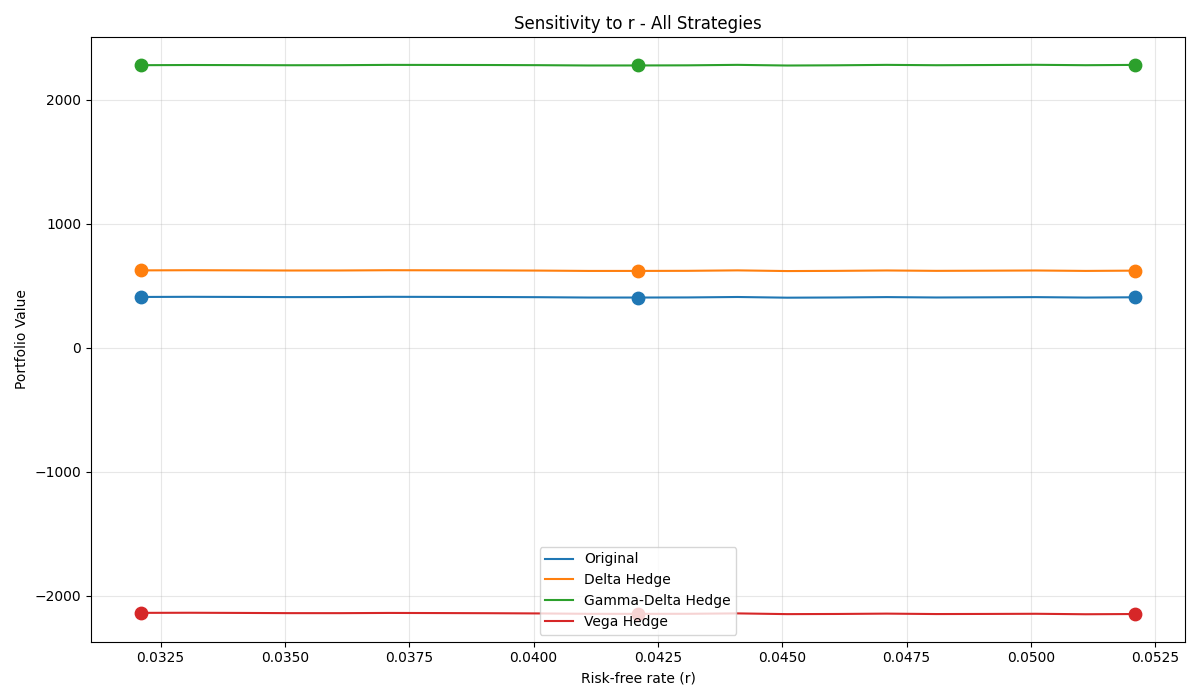
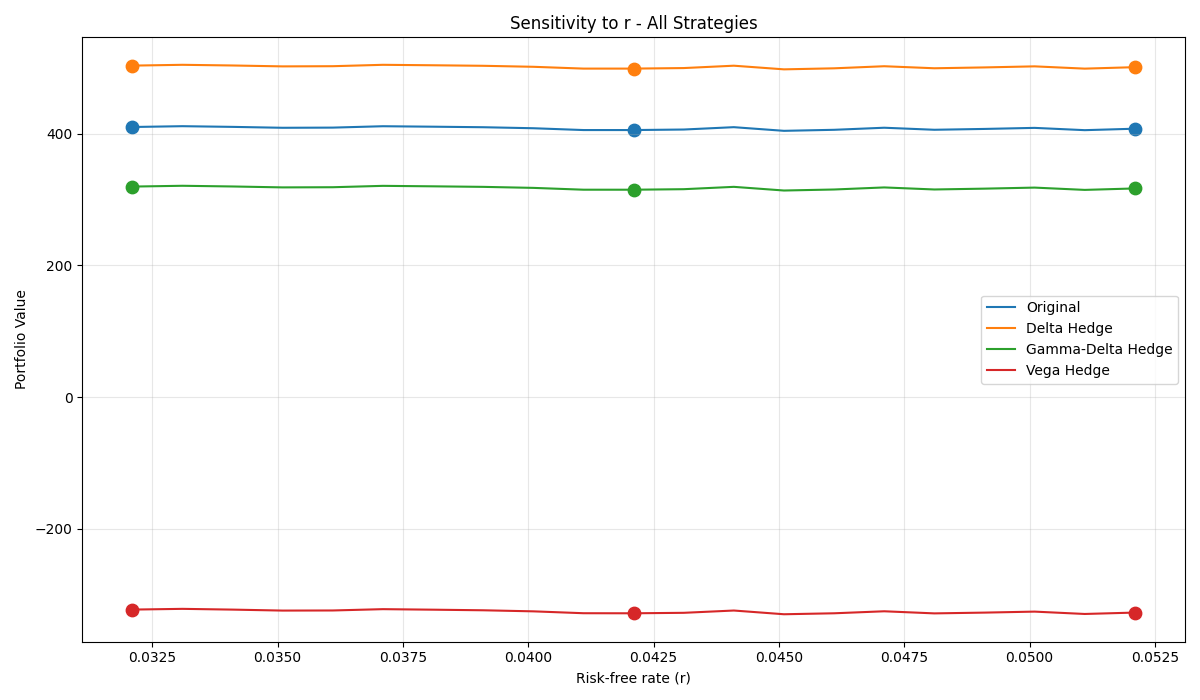
test

diff --git a/option_pricing/binomial_model/binomial_portfolio_analysis.py b/option_pricing/binomial_model/binomial_portfolio_analysis.py
@@ -171,12 +171,17 @@ def gamma_bs(S, K, T, r, sigma):
     d1 = (np.log(S / K) + (r + 0.5 * sigma ** 2) * T) / (sigma * np.sqrt(T))
     return norm.pdf(d1) / (S * sigma * np.sqrt(T))
 
-def run_sensitivity_analysis_binomial(portfolio, N, vis_dir):
+def run_sensitivity_analysis_binomial(portfolio, N):
+    # Define portfolio_gamma_hedged and portfolio_vega_hedged before using them
+    portfolio_gamma_hedged = portfolio + [{'type': 'call', 'style': 'european', 'S': portfolio[0]['S'], 'K': portfolio[0]['K'], 'T': portfolio[0]['T'], 'r': portfolio[0]['r'], 'qty': 0, 'market_price': portfolio[0]['market_price']}]
+    portfolio_vega_hedged = portfolio + [{'type': 'call', 'style': 'european', 'S': portfolio[0]['S'], 'K': portfolio[0]['K'], 'T': portfolio[0]['T'], 'r': portfolio[0]['r'], 'qty': 0, 'market_price': portfolio[0]['market_price']}]
     hedge_strategies = [
         ('Original', portfolio),
         ('Delta Hedge', portfolio + [{
             'type': 'call', 'style': 'european', 'S': portfolio[0]['S'], 'K': portfolio[0]['K'], 'T': portfolio[0]['T'], 'r': portfolio[0]['r'], 'qty': -portfolio_greeks(portfolio, N)['delta'], 'market_price': portfolio[0]['market_price']
         }]),
+        ('Delta-Gamma Hedge', portfolio_gamma_hedged),
+        ('Vega Hedge', portfolio_vega_hedged),
     ]
     # 1. Sensibilidad Spot (±10%)
     spot_base = portfolio[0]['S']
@@ -213,14 +218,14 @@ def run_sensitivity_analysis_binomial(portfolio, N, vis_dir):
             'Δ+10%': dhigh
         })
     df_spot = pd.DataFrame(spot_rows)
-    df_spot.to_csv(os.path.join(vis_dir, 'sensitivity_spot_all.csv'), index=False)
+    df_spot.to_csv(os.path.join(VIS_DIR, 'sensitivity_spot_all.csv'), index=False)
     plt.xlabel('Spot')
     plt.ylabel('Portfolio Value')
     plt.title('Sensitivity to Spot - All Strategies (Binomial)')
     plt.legend()
     plt.grid(True, alpha=0.3)
     plt.tight_layout()
-    plt.savefig(os.path.join(vis_dir, 'sensitivity_spot_all.png'))
+    plt.savefig(os.path.join(VIS_DIR, 'sensitivity_spot_all.png'))
     plt.close()
     # 2. Sensibilidad tipo de interés (±1%)
     r_base = portfolio[0]['r']
@@ -257,14 +262,14 @@ def run_sensitivity_analysis_binomial(portfolio, N, vis_dir):
             'Δ+1%': dhigh
         })
     df_r = pd.DataFrame(r_rows)
-    df_r.to_csv(os.path.join(vis_dir, 'sensitivity_r_all.csv'), index=False)
+    df_r.to_csv(os.path.join(VIS_DIR, 'sensitivity_r_all.csv'), index=False)
     plt.xlabel('Risk-free rate (r)')
     plt.ylabel('Portfolio Value')
     plt.title('Sensitivity to r - All Strategies (Binomial)')
     plt.legend()
     plt.grid(True, alpha=0.3)
     plt.tight_layout()
-    plt.savefig(os.path.join(vis_dir, 'sensitivity_r_all.png'))
+    plt.savefig(os.path.join(VIS_DIR, 'sensitivity_r_all.png'))
     plt.close()
     # 3. Sensibilidad volatilidad (±20%)
     plt.figure(figsize=(12,7))
@@ -304,17 +309,19 @@ def run_sensitivity_analysis_binomial(portfolio, N, vis_dir):
             'Δ+20%': dhigh
         })
     df_vol = pd.DataFrame(vol_rows)
-    df_vol.to_csv(os.path.join(vis_dir, 'sensitivity_vol_all.csv'), index=False)
+    df_vol.to_csv(os.path.join(VIS_DIR, 'sensitivity_vol_all.csv'), index=False)
     plt.xlabel('Volatility multiplier')
     plt.ylabel('Portfolio Value')
     plt.title('Sensitivity to Volatility - All Strategies (Binomial)')
     plt.legend()
     plt.grid(True, alpha=0.3)
     plt.tight_layout()
-    plt.savefig(os.path.join(vis_dir, 'sensitivity_vol_all.png'))
+    plt.savefig(os.path.join(VIS_DIR, 'sensitivity_vol_all.png'))
     plt.close()
 
 if __name__ == "__main__":
+    # Define the number of steps for the binomial model
+    N = 100  # or any appropriate default value
     # --- Definición de la cartera ---
     portfolio = [
         {'type': 'call', 'style': 'european', 'S': 5912.17, 'K': 5915, 'T': 0.0849, 'r': 0.0421, 'qty': -10, 'market_price': 111.93},
@@ -566,7 +573,7 @@ if __name__ == "__main__":
     hedge_strategies = [
         ('Original', portfolio),
         ('Delta Hedge', portfolio + [{
-            'type': 'call', 'style': 'european', 'S': portfolio[0]['S'], 'K': portfolio[0]['K'], 'T': portfolio[0]['T'], 'r': portfolio[0]['r'], 'qty': -portfolio_greeks(portfolio, N=N_steps)['delta'], 'market_price': portfolio[0]['market_price']
+            'type': 'call', 'style': 'european', 'S': portfolio[0]['S'], 'K': portfolio[0]['K'], 'T': portfolio[0]['T'], 'r': portfolio[0]['r'], 'qty': -portfolio_greeks(portfolio, N)['delta'], 'market_price': portfolio[0]['market_price']
         }]),
         ('Delta-Gamma Hedge', portfolio_gamma_hedged),
         ('Vega Hedge', portfolio_vega_hedged),

diff --git a/app.py b/app.py
@@ -909,9 +909,9 @@ if menu == "Sensitivity Analysis":
     # Add conditional logic for model-specific settings
     if model == "Monte Carlo":
         st.write("Monte Carlo model selected.")
-        n_sim_main = st.number_input("Number of simulations for P&L and VaR/ES", value=1000, min_value=1000, step=1000, help="Number of scenarios for P&L and VaR/ES simulation.")
-        n_sim_greeks = st.number_input("Number of simulations for Greeks", value=1000, min_value=1000, step=1000, help="Number of scenarios for Greeks calculation.")
-        n_sim_sens = st.number_input("Number of simulations for Sensitivities", value=1000, min_value=1000, step=1000, help="Number of scenarios for sensitivity analysis.")
+        n_sim_main = st.number_input("Number of simulations for P&L and VaR/ES", value=1000, min_value=1000, step=1000, help="Number of scenarios for P&L and VaR/ES simulation.", key="n_sim_main_sensitivity")
+        n_sim_greeks = st.number_input("Number of simulations for Greeks", value=1000, min_value=1000, step=1000, help="Number of scenarios for Greeks calculation.", key="n_sim_greeks_sensitivity")
+        n_sim_sens = st.number_input("Number of simulations for Sensitivities", value=1000, min_value=1000, step=1000, help="Number of scenarios for sensitivity analysis.", key="n_sim_sens_sensitivity")
         st.write("Note: The following input uses the Longstaff-Schwartz method.")
         N_steps = st.number_input("Number of steps (For short maturities, use fewer steps; for long maturities, use more steps)", value=100, min_value=1, step=1, help="Discretization steps for Monte Carlo model.")
     elif model == "Black-Scholes":
@@ -919,7 +919,7 @@ if menu == "Sensitivity Analysis":
         # Add Black-Scholes specific inputs here
     elif model == "Binomial":
         st.write("Binomial model selected.")
-        N_steps_binomial = st.number_input("Number of steps for Binomial tree", value=100, min_value=1, step=1, help="Discretization steps for Binomial model.")
+        N_steps_binomial = st.number_input("Number of steps for Binomial tree", value=100, min_value=1, step=1, help="Discretization steps for Binomial model.", key="N_steps_binomial_sensitivity")
     
     # Ensure portfolio options are customizable
     for i in range(num_options):
@@ -963,7 +963,16 @@ if menu == "Sensitivity Analysis":
                     st.write(pd.read_csv(os.path.join(vis_dir, 'sensitivity_r_mc.csv')))
                     st.write(pd.read_csv(os.path.join(vis_dir, 'sensitivity_vol_mc.csv')))
                 elif model == "Binomial":
-                    st.write("Binomial model selected.")
+                    bpa.run_sensitivity_analysis_binomial(portfolio, N_steps_binomial)
+                    st.success("Sensitivity analysis completed. Check the visualizations directory for results.")
+                    # Display graphs and numerical tables
+                    st.image(os.path.join(bpa.VIS_DIR, 'sensitivity_spot_all.png'))
+                    st.image(os.path.join(bpa.VIS_DIR, 'sensitivity_r_all.png'))
+                    st.image(os.path.join(bpa.VIS_DIR, 'sensitivity_vol_all.png'))
+                    st.write("Numerical tables:")
+                    st.write(pd.read_csv(os.path.join(bpa.VIS_DIR, 'sensitivity_spot_all.csv')))
+                    st.write(pd.read_csv(os.path.join(bpa.VIS_DIR, 'sensitivity_r_all.csv')))
+                    st.write(pd.read_csv(os.path.join(bpa.VIS_DIR, 'sensitivity_vol_all.csv')))
             except Exception as e:
                 st.error(f"Error in calculation: {e}")
 
